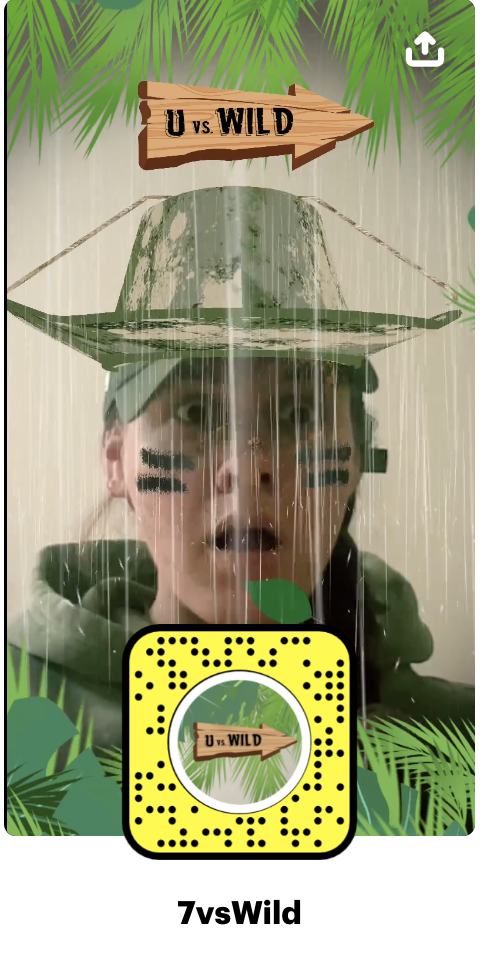
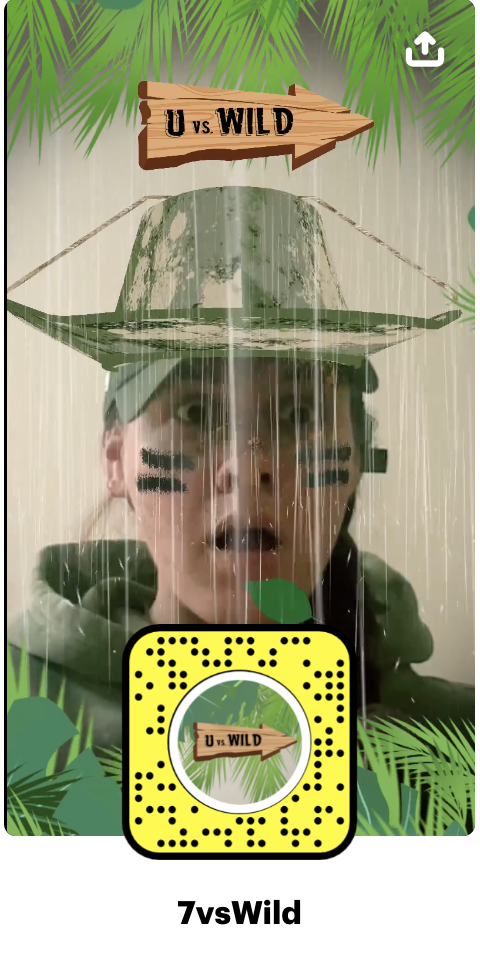
AR project beschreibungen, details + name

diff --git a/src/components/portfolio/PortfolioTwo.vue b/src/components/portfolio/PortfolioTwo.vue
@@ -145,7 +145,7 @@
             @close="index = null"
           >
           </CoolLightBox>
-          <li v-for="(image, imageIndex) in arVrItems" :key="imageIndex">
+          <li  v-for="(image, imageIndex) in arVrItems" :key="imageIndex" style="padding-left: 7%;">
             <div class="inner" @click="index = imageIndex">
               <div class="entry tokyo_tm_portfolio_animation_wrap">
                  <img class="image" :src="image.thumb" alt="Portfolio" />
@@ -164,7 +164,9 @@
               
             </div> 
             <div v-if="image.portfolioName" class="custom-post-title"> {{ image.portfolioName }}</div>
-            <button v-if="image.xr" class="custom-button-green" href='https://github.com/Michelle-P95/XR-Handtracking'>{{ image.xr }}</button>
+            <div style="color: black; text-align: center; display: flex; justify-content: center; align-items: center;" v-if="image.details"> {{ image.details }}</div>
+
+            <button v-if="image.buttn" class="custom-button-green" href='https://github.com/Michelle-P95/XR-Handtracking'>{{ image.buttn }}</button>
             <button href="" style="visibility: hidden;"></button>
           </li>
           <!-- btn-outline dreht um?- -->
@@ -1185,74 +1187,85 @@ export default {
           src: require("../../assets/img/_/AR/bubble_hat.mp4"),
           autoplay: true,
           thumb: require("../../assets/img/_/AR/Food4Me.png"),
-          portfolioName: "AR App",
-          portfolioType: "AR",
+          portfolioName: "AR App - Food4Me",
+          //portfolioType: "AR",
           play: require("../../assets/img/_/play.png"),
+          details: "made with User-Centered-Design in Unity3D.",
+          buttn: "",
         },
         {
           src: require("../../assets/img/_/AR/bubble_hat.mp4"),
           autoplay: true,
           thumb: require("../../assets/img/_/AR/virtualGarden.png"),
-          portfolioName: "mobile App (Unity)",
-          portfolioType: "AR",
+          portfolioName: "AR App - virtual Garden",
+          details: "made with User-Centered-Design in Unity3D.",
+          buttn: "",
         },
         {
           src: require("../../assets/img/_/AR/Handtracking.mp4"),
           autoplay: true,
           thumb: require("../../assets/img/_/AR/HandtrackingXR.png"),
-          portfolioName: "Handtracking (Unity)",
-          portfolioType: "XR",
-          xr: "Source code",
+          portfolioName: "XR / VR - Handtracking",
+          //portfolioType: "XR",
+           details: "made in Unity3D with Leapmotion, SteamVR",
+          buttn: "",
         },
           {
           src: require("../../assets/img/_/AR/bubble_hat.mp4"),
           autoplay: true,
           thumb: require("../../assets/img/_/AR/ARestaurant.png"),
-          portfolioName: "mobile App (Unity)",
-          portfolioType: "AR",
+          portfolioName: "AR App - ARestaurant",
+          //portfolioType: "AR",
+          details: "made in Unity3D with Vuforia SDK.",
+          buttn: "",
         },
         {
           src: require("../../assets/img/_/AR/bubble_hat.mp4"),
           autoplay: true,
           thumb: require("../../assets/img/_/AR/milka3.png"),
-          portfolioName: "(Meta Spark Studio)",
-          portfolioType: "AR",
-        },
-        
-        {
-          src: require("../../assets/img/_/AR/video_final_burger.mp4"),
-          autoplay: true,
-          thumb: require("../../assets/img/_/AR/burger.png"),
-          portfolioName: "(Lens Studio)",
-          portfolioType: "AR",
+          portfolioName: "AR - Object Tracking",
+           details: "made in Meta Spark Studio. can be used in Instagram.",
+          buttn: "",
         },
         {
           src: require("../../assets/img/_/AR/preview.mp4"),
           autoplay: true,
           thumb: require("../../assets/img/_/AR/neon-pink.png"),
-          portfolioName: "(Lens Studio)",
-          portfolioType: "AR",
+          portfolioName: "AR - Glitch Art",
+          details: "made in Lens Studio. experimental Glitch Art Filter.",
+          buttn: "",
+        },
+        {
+          src: require("../../assets/img/_/AR/video_final_burger.mp4"),
+          autoplay: true,
+          thumb: require("../../assets/img/_/AR/burger.png"),
+          portfolioName: "AR - Face Tracking",
+           details: "made in Lens Studio. triggers with a kiss mouth.",
+          buttn: "",
         },
         {
           src: require("../../assets/img/_/AR/bubble_hat.mp4"),
           autoplay: true,
           thumb: require("../../assets/img/_/AR/bubble_hat.png"),
-          portfolioName: "(Lens Studio)",
-          portfolioType: "AR",
+              portfolioName: "AR - Face Tracking",
+                 details: "made in Lens Studio. triggers with open Mouth.",
+          buttn: "",
         },
         {
           src: require("../../assets/img/_/AR/YouVSWild.mp4"),
           autoplay: true,
           thumb: require("../../assets/img/_/AR/YouvsWild.png"),
-          portfolioName: "(Lens Studio)",
-          portfolioType: "AR",
+              portfolioName: "AR - Face Tracking",
+                  details: "made in Lens Studio. triggers with open Mouth Animations, Sounds and more.",
+          buttn: "",
         },
         {
           src: require("../../assets/img/_/AR/video_conch.mp4"),
           autoplay: true,
           thumb: require("../../assets/img/_/AR/magic_conch.png"),
-          portfolioName: "(Lens Studio)",
-          portfolioType: "AR",
+               portfolioName: "AR - Face Tracking",
+                 details: "made in Lens Studio. Randomizer and triggers with Touch.",
+          buttn: "",
         }
         
       

diff --git a/src/components/Footer.vue b/src/components/Footer.vue
@@ -12,6 +12,8 @@
               <img src="../assets/img/_/logo/xing.png" alt="LinkedIn Icon" height="30px"></a> 
 						<a href="https://github.com/Michelle-P95?tab=repositories"  >
               <img src="../assets/img/_/logo/GitHub-Mark.png" alt="LinkedIn Icon" height="30px"></a>
+             <!-- <a href="https://lensstudio.snapchat.com/creator/yMqWE9Ok-4iqpoOApILXTA"  >
+                <img src="../assets/img/_/logo/LensStudio.png" alt="Lens Creator Profil" height="30px"></a> -->
           </p>
          
 <br><br>
